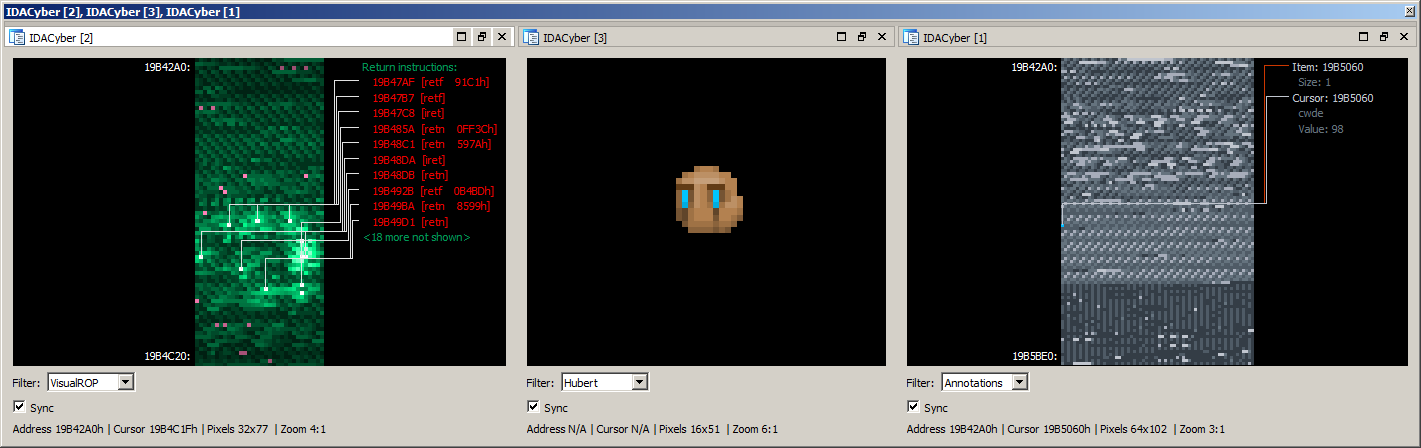
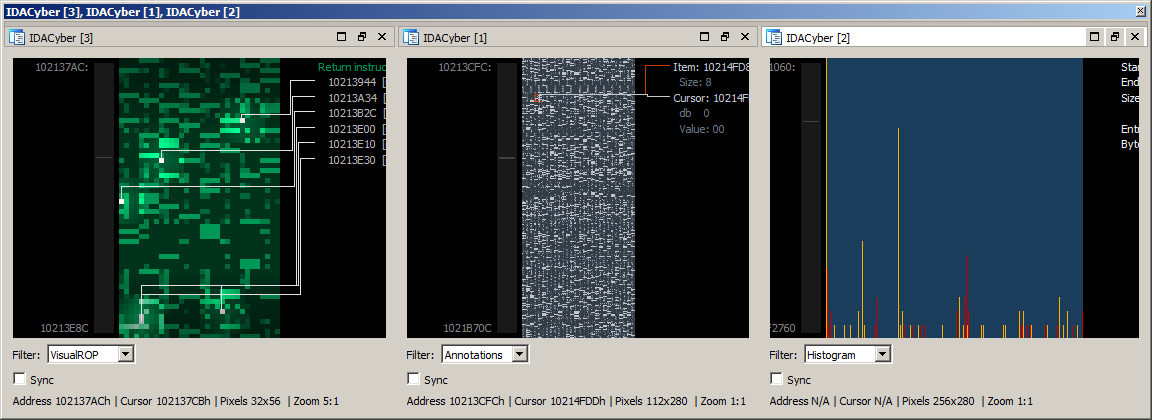
repaint only if mouse within graph area

diff --git a/idacyber.py b/idacyber.py
@@ -163,9 +163,12 @@ class PixelWidget(QWidget):
         self.mouseOffs = 0
         self.sync = True
         self.bh = bufhandler
+        self.mouse_abs_x = 0
+        self.mouse_abs_y = 0
         self.elemX = 0
         self.elemY = 0
         self.rect_x = 0
+        self.rect_x_width = 0
         self.lock_width = False
         self.lock_sync = False
         self.link_pixel = True
@@ -180,7 +183,8 @@ class PixelWidget(QWidget):
 
     def paintEvent(self, event):
         # set leftmost x-coordinate of graph
-        self.rect_x = (self.rect().width() / 2) - ((self.maxPixelsPerLine * self.pixelSize) / 2)
+        self.rect_x_width = self.maxPixelsPerLine * self.pixelSize        
+        self.rect_x = (self.rect().width() / 2) - (self.rect_x_width / 2)
 
         qp = QPainter()
         qp.begin(self)
@@ -290,7 +294,10 @@ class PixelWidget(QWidget):
                 if not x:
                     y = y + 1
 
-        if cursor and self.fm.highlight_cursor:
+        if (cursor and self.fm.highlight_cursor and
+            self.mouse_abs_x >= self.rect_x and
+            self.mouse_abs_x < self.rect_x + self.rect_x_width):
+            
             p = QPoint(self.get_elem_x(), self.get_elem_y())
             img.setPixel(p, ~(img.pixelColor(p)).rgb())
 
@@ -509,43 +516,45 @@ class PixelWidget(QWidget):
     def mouseMoveEvent(self, event):
         x = event.pos().x()
         y = event.pos().y()
+        within_graph = (x >= self.rect_x and x < self.rect_x + self.rect_x_width)
         
-        if event.buttons() == Qt.NoButton:
-            self._update_mouse_coords(event.pos())
-            self.mouseOffs = self._get_offs_by_pos(event.pos())
+        if within_graph:
+            if event.buttons() == Qt.NoButton:
+                self._update_mouse_coords(event.pos())
+                self.mouseOffs = self._get_offs_by_pos(event.pos())
 
-            self.setToolTip(self.fm.on_get_tooltip(self.get_address(), self.get_pixels_total(), self.mouseOffs))
+                self.setToolTip(self.fm.on_get_tooltip(self.get_address(), self.get_pixels_total(), self.mouseOffs))
 
-        # zoom
-        elif self.key == Qt.Key_Control:
-            self.set_zoom_delta(-1 if y > self.prev_mouse_y else 1)
+            # zoom
+            elif self.key == Qt.Key_Control:
+                self.set_zoom_delta(-1 if y > self.prev_mouse_y else 1)
 
-        # width
-        elif self.key == Qt.Key_X:
-            if not self.lock_width:
-                self.set_width_delta(-1 if y > self.prev_mouse_y else 1)
+            # width
+            elif self.key == Qt.Key_X:
+                if not self.lock_width:
+                    self.set_width_delta(-1 if y > self.prev_mouse_y else 1)
 
-        elif self.key == Qt.Key_H:
-            if not self.lock_width:
-                less = y > self.prev_mouse_y
-                delta = -16 if less else 16
-                self.set_width((self.get_width() & 0xFFFFFFF0) + delta)
+            elif self.key == Qt.Key_H:
+                if not self.lock_width:
+                    less = y > self.prev_mouse_y
+                    delta = -16 if less else 16
+                    self.set_width((self.get_width() & 0xFFFFFFF0) + delta)
 
-        # scrolling (offset)
-        elif y != self.prev_mouse_y:
-            # offset (fine)
-            delta = y - self.prev_mouse_y
+            # scrolling (offset)
+            elif y != self.prev_mouse_y:
+                # offset (fine)
+                delta = y - self.prev_mouse_y
 
-            # offset (coarse)
-            if self.key != Qt.Key_Shift:
-                delta *= self.get_width()
-                
-            self.set_offset_delta(delta)
+                # offset (coarse)
+                if self.key != Qt.Key_Shift:
+                    delta *= self.get_width()
+                    
+                self.set_offset_delta(delta)
 
-        self.prev_mouse_y = y
-        self.x = x
-        self.statechanged.emit()
-        self.repaint()
+            self.prev_mouse_y = y
+            self.x = x
+            self.statechanged.emit()
+            self.repaint()
         return
 
     def set_sync_state(self, sync):
@@ -634,8 +643,13 @@ class PixelWidget(QWidget):
         return offs
 
     def _update_mouse_coords(self, pos):
-        self.elemX = max(0, min((max(0, pos.x() - self.rect_x)) / self.pixelSize, self.maxPixelsPerLine - 1))
-        self.elemY = min(pos.y() / self.pixelSize, self.maxPixelsTotal / self.maxPixelsPerLine - 1)
+        x = pos.x()
+        y = pos.y()
+        self.mouse_abs_x = x
+        self.mouse_abs_y = y
+
+        self.elemX = max(0, min((max(0, x - self.rect_x)) / self.pixelSize, self.maxPixelsPerLine - 1))
+        self.elemY = min(y / self.pixelSize, self.maxPixelsTotal / self.maxPixelsPerLine - 1)
 
     def get_elem_x(self):
         return self.elemX
@@ -807,7 +821,12 @@ class IDACyberPlugin(plugin_t):
     def init(self):
         global banner
         self.form = None
-        self.options = PluginForm.WOPN_MENU|PluginForm.WOPN_RESTORE|PluginForm.FORM_SAVE|PluginForm.WOPN_PERSIST|PluginForm.WCLS_CLOSE_LATER
+        self.options = (PluginForm.WOPN_MENU |
+            PluginForm.WOPN_ONTOP |
+            PluginForm.WOPN_RESTORE |
+            PluginForm.FORM_SAVE |
+            PluginForm.WOPN_PERSIST |
+            PluginForm.WCLS_CLOSE_LATER)
         msg('%s' % banner)
         return PLUGIN_KEEP
 

diff --git a/README.md b/README.md
@@ -59,7 +59,7 @@ Yes :[
 
 ### Gallery
 
-The following shows an excerpt of the available color filters
+The following shows an excerpt of the color filters available for IDACyber:
 
 ![IDACyber Gallery 01](/screenshots/screen03.png?raw=true "IDACyber")
 ![IDACyber Gallery 02](/screenshots/screen04.png?raw=true "IDACyber")
